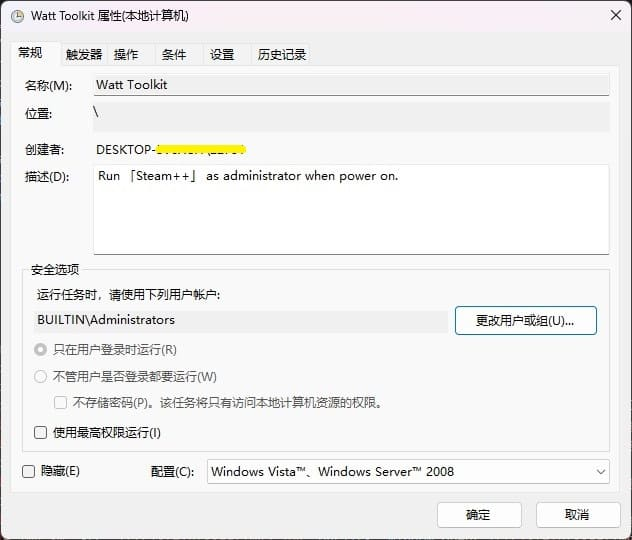
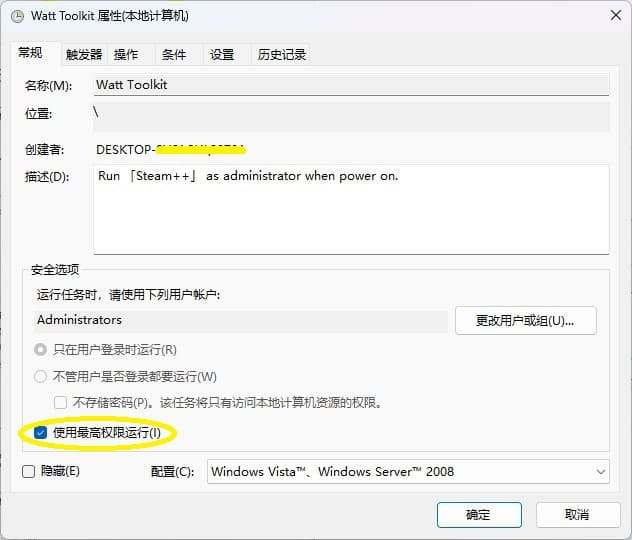
20231123161450

diff --git a/rtcls/exp/ssaa/ssaa.html b/rtcls/exp/ssaa/ssaa.html
@@ -45,7 +45,7 @@
             <div class="h6 article">&emsp;&emsp;6、点击「更改用户或组」，在最下方输入框中键入「administrators」后点击「确定」。</div>
             <img class="article_img_sm" src="/rtcls/exp/ssaa/img7.jpg" onclick="window.open('/rtcls/exp/ssaa/img7.jpg')">
             <img class="article_img_sm" src="/rtcls/exp/ssaa/img8.jpg" onclick="window.open('/rtcls/exp/ssaa/img8.jpg')">
-            <div class="h6 article">&emsp;&emsp;7、设置完成如图，点击「确定」即可生效。</div>
+            <div class="h6 article">&emsp;&emsp;7、设置完成如图，勾选下方「使用最高权限运行」，点击「确定」即可生效。</div>
             <img class="article_img_sm" src="/rtcls/exp/ssaa/img9.jpg" onclick="window.open('/rtcls/exp/ssaa/img9.jpg')">
         </div>
     </div>

diff --git a/index.html b/index.html
@@ -205,8 +205,8 @@
                 </div>
                 <div class="swiper-slide" id="swiper2-slide3">
                     <ul class="list-group overflow-auto" style="margin-top: 10px; height: auto">
-                        <li class="list-group-item"><a href="/rtcls/study/mpdevelop/mpdevelop.html"
-                                target="_blank">【微信小程序】记一次简单的微信小程序开发</a><small class="data">2023.08.26</small></li>
+                        <li class="list-group-item"><a href="/rtcls/exp/ssaa/ssaa.html"
+                                target="_blank">以管理员身份开机自启动程序</a><small class="data">2023.11.23</small></li>
                     </ul>
                 </div>
                 <div class="swiper-slide" id="swiper2-slide4">
